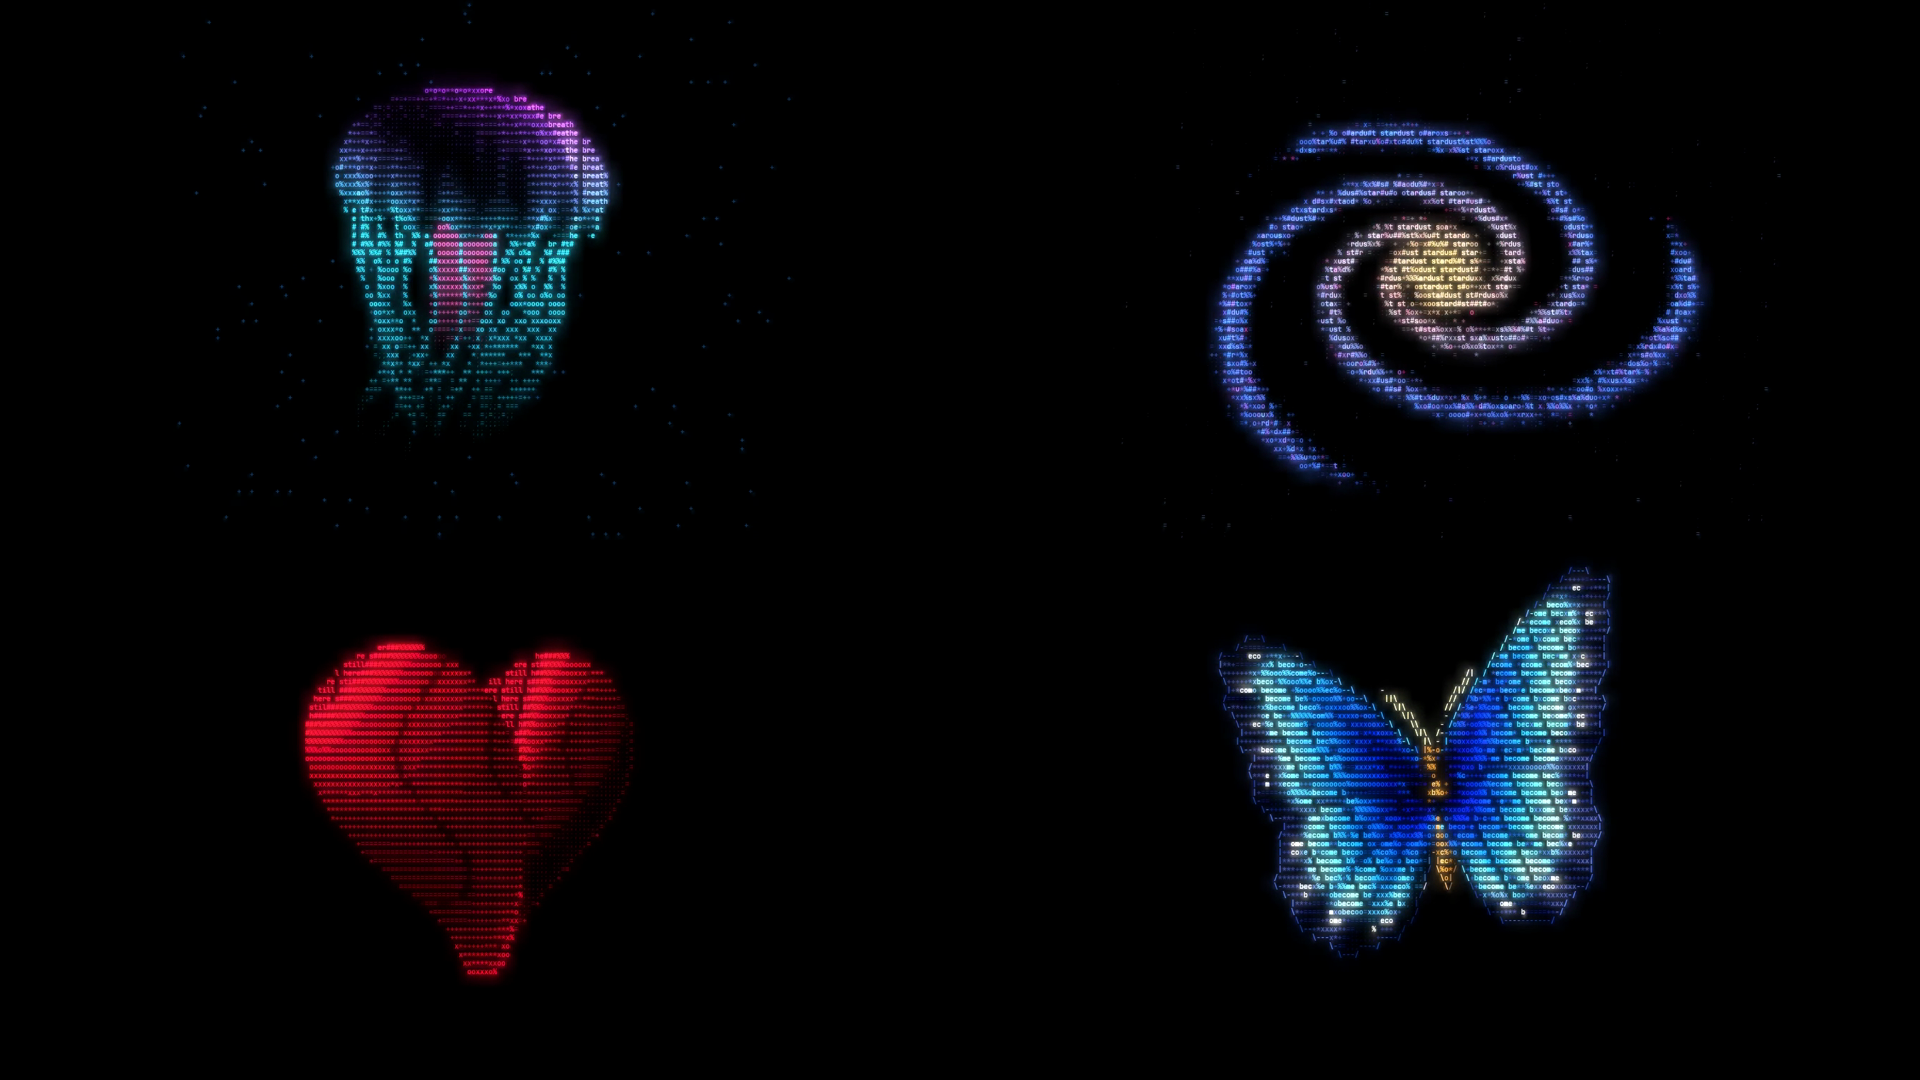
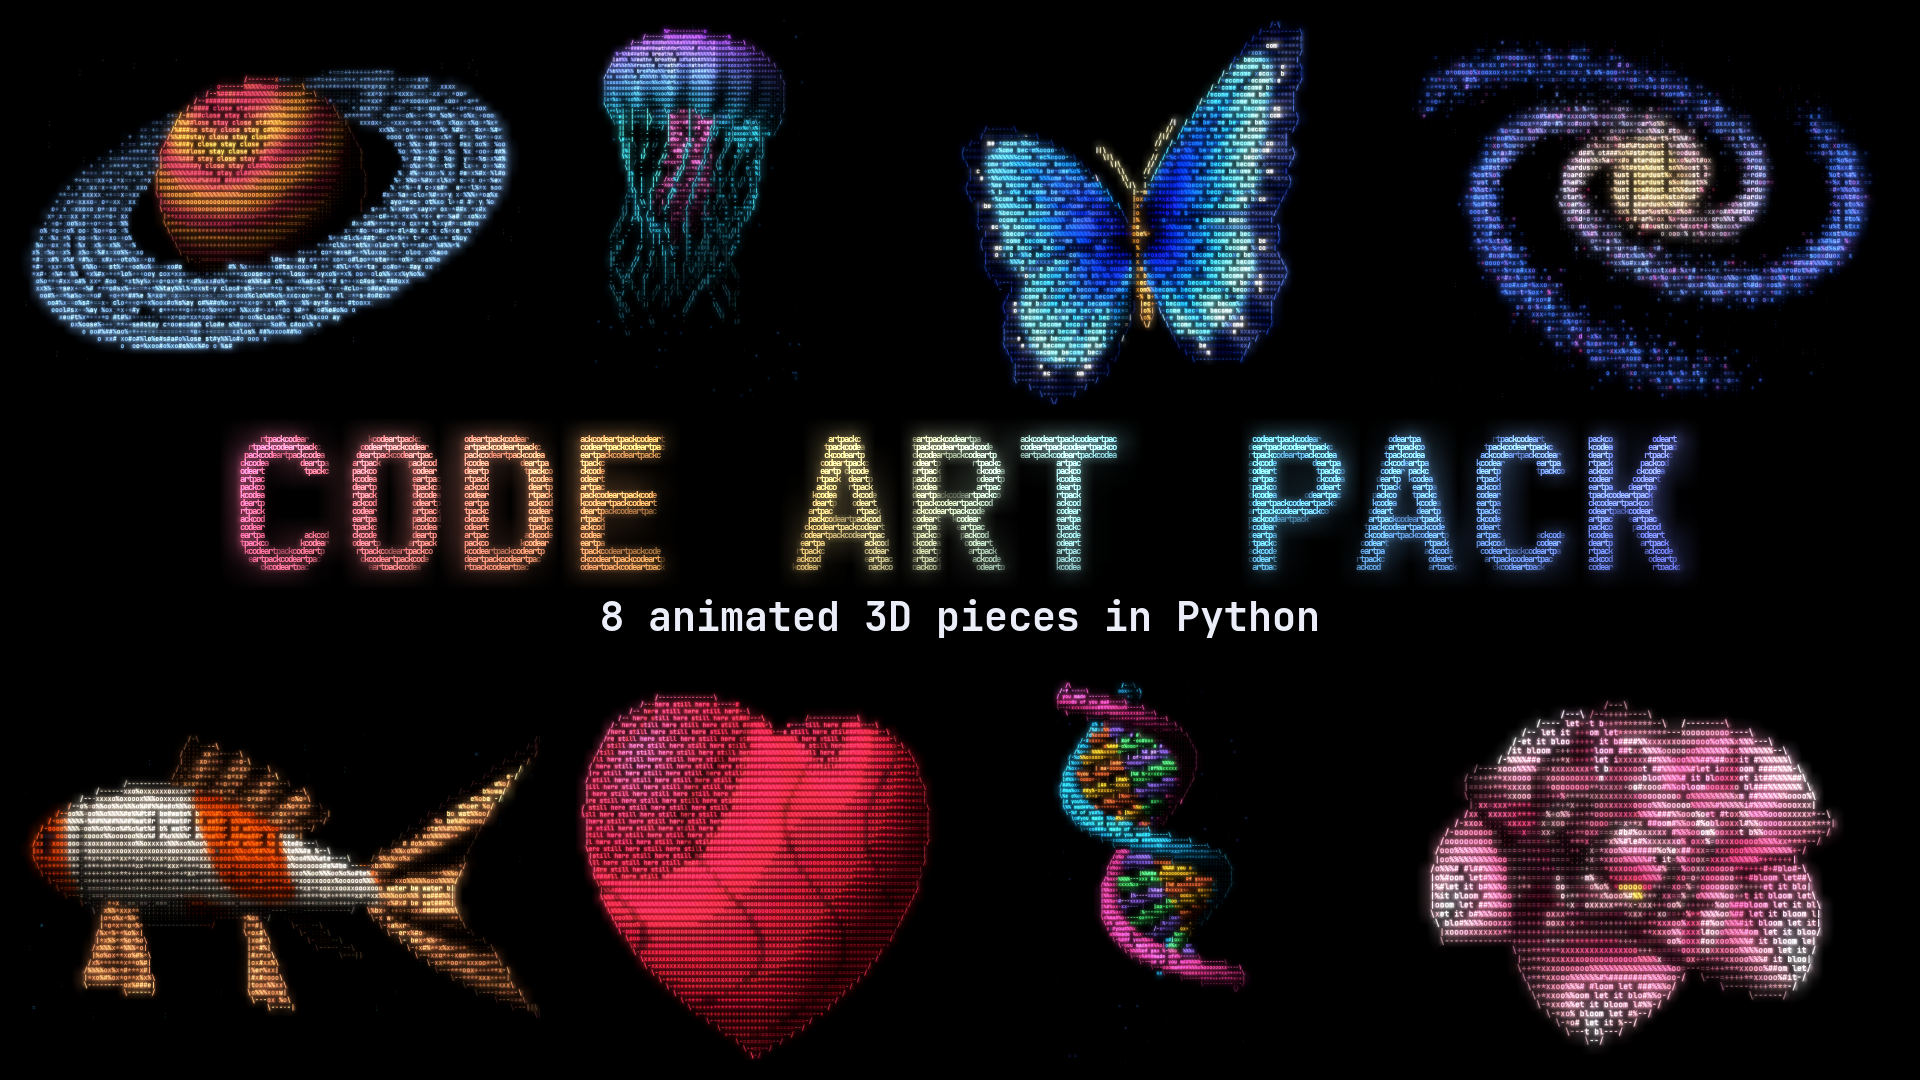
Update Code Art Pack promo for eight 3D pieces

diff --git a/README.md b/README.md
@@ -12,17 +12,17 @@ download and run.
 
 ## Want to make your own? Get the Code Art Pack
 
-[![Jellyfish, galaxy, heart and butterfly drawn in ASCII characters](assets/code-art-pack.png)](https://whop.com/thefrontier/code-art-pack-ascii-animations-in-python)
+[![Eight 3D animations: jellyfish, galaxy, heart, planet, DNA, koi, flower and butterfly, drawn in ASCII characters](assets/code-art-pack.png)](https://whop.com/thefrontier/code-art-pack-ascii-animations-in-python)
 
 **[Get the Code Art Pack: $19, one-time](https://whop.com/thefrontier/code-art-pack-ascii-animations-in-python)**
 
 | | Free, here | Code Art Pack |
 | --- | :---: | :---: |
 | Bloom and Butterfly | Yes | Yes |
-| Jellyfish, Galaxy and Heart | | Yes |
+| Jellyfish, Galaxy, Heart, Planet, DNA and Koi | | Yes |
 | Interactive notebook with live demos | | Yes |
 | Builder that writes a Python file from your choices | | Yes |
-| Walkthroughs of all five pieces | | Yes |
+| Walkthroughs of all eight pieces | | Yes |
 | Starter template and guides | | Yes |
 | One-command video export, including 1080x1920 vertical | | Yes |
 | Free updates as new pieces are added | | Yes |
